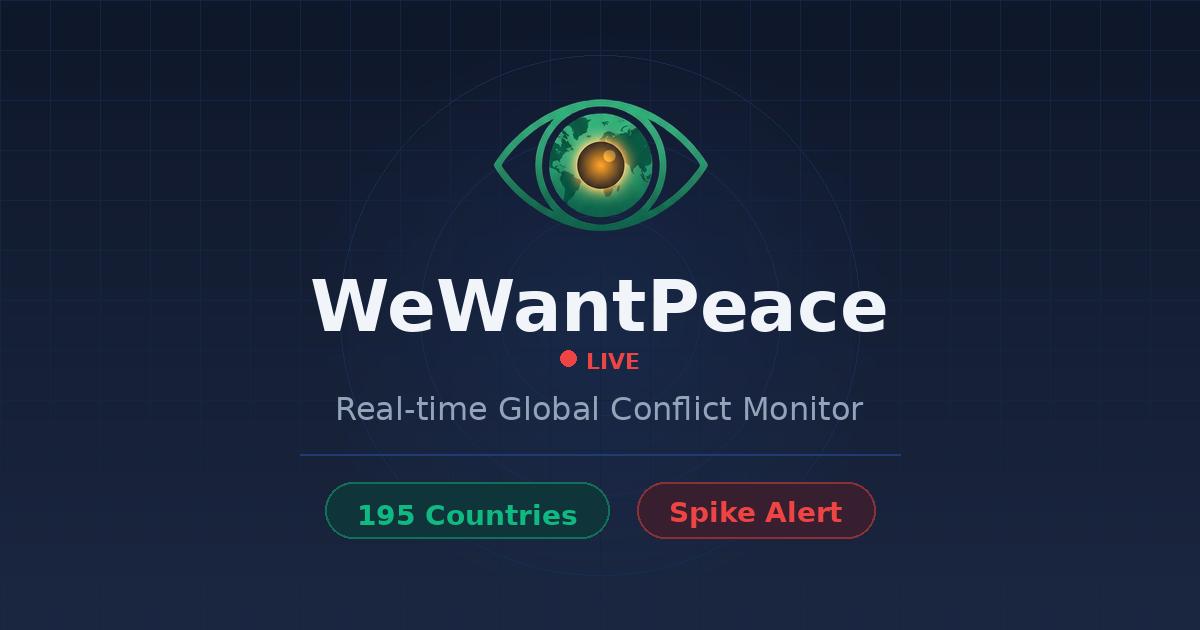
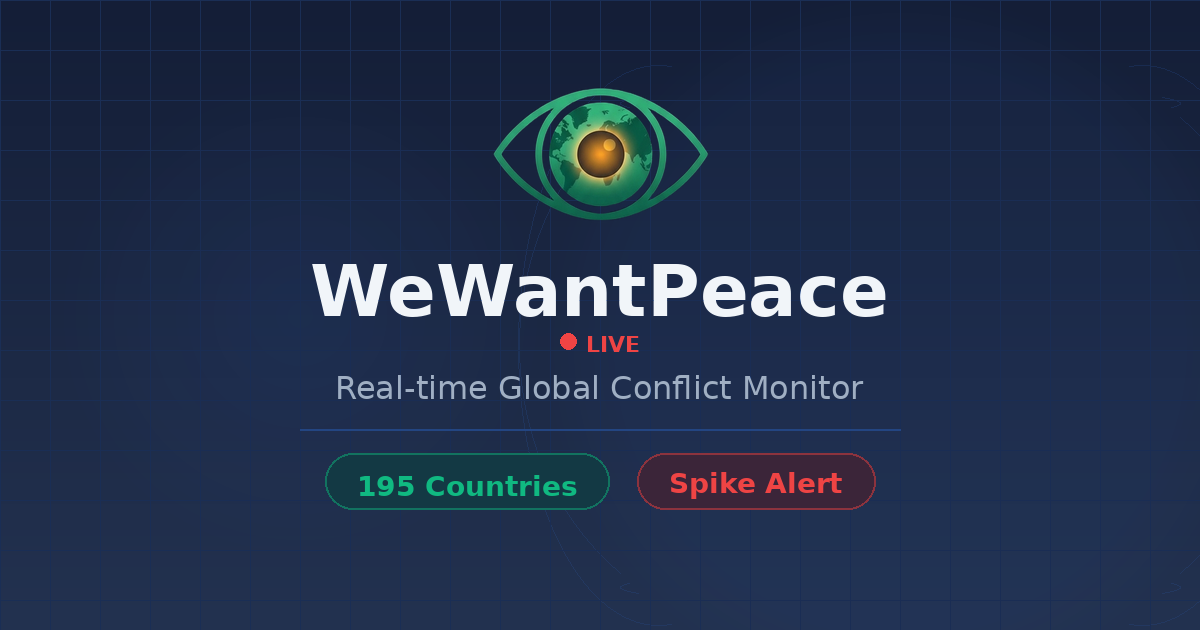
OG 이미지 개선 (지구본 배경 추가, 배경 밝게, 중앙 정렬) + 타이틀/디스크립션 중복 제거

Changed region(s): [[0.185, 0.3921, 0.74, 0.8746], [0.4008, 0.1206, 0.6167, 0.3921], [0.5242, 0.0905, 0.555, 0.1206]]

diff --git a/frontend/app/(main)/issues/[id]/page.tsx b/frontend/app/(main)/issues/[id]/page.tsx
@@ -20,18 +20,18 @@ export async function generateMetadata({ params }: Props): Promise<Metadata> {
       title: "WeWantPeace",
       description: SITE_DESC,
       openGraph: {
-        title: "WeWantPeace | 실시간 글로벌 분쟁 모니터링",
+        title: "WeWantPeace",
         description: SITE_DESC,
         type: "website",
         url: SITE_URL,
         siteName: "WeWantPeace",
-        images: [{ url: `${SITE_URL}/og-image.png?v=3` }],
+        images: [{ url: `${SITE_URL}/og-image.png?v=4` }],
       },
       twitter: {
         card: "summary_large_image",
-        title: "WeWantPeace | 실시간 글로벌 분쟁 모니터링",
+        title: "WeWantPeace",
         description: SITE_DESC,
-        images: [{ url: `${SITE_URL}/og-image-twitter.png?v=3` }],
+        images: [{ url: `${SITE_URL}/og-image-twitter.png?v=4` }],
       },
     };
   }

diff --git a/frontend/app/layout.tsx b/frontend/app/layout.tsx
@@ -18,15 +18,15 @@ export const metadata: Metadata = {
     locale: "ko_KR",
     url: SITE_URL,
     siteName: "WeWantPeace",
-    title: "WeWantPeace | 실시간 글로벌 분쟁 모니터링",
+    title: "WeWantPeace",
     description: "195개국 분쟁·안보 실시간 모니터링 플랫폼",
-    images: [{ url: `${SITE_URL}/og-image.png?v=3`, width: 1200, height: 630 }],
+    images: [{ url: `${SITE_URL}/og-image.png?v=4`, width: 1200, height: 630 }],
   },
   twitter: {
     card: "summary_large_image",
-    title: "WeWantPeace | 실시간 글로벌 분쟁 모니터링",
+    title: "WeWantPeace",
     description: "195개국 분쟁·안보 실시간 모니터링 플랫폼",
-    images: [{ url: `${SITE_URL}/og-image-twitter.png?v=3` }],
+    images: [{ url: `${SITE_URL}/og-image-twitter.png?v=4` }],
   },
   appleWebApp: {
     capable: true,

diff --git a/scripts/generate_og_image.py b/scripts/generate_og_image.py
@@ -5,63 +5,104 @@ OG 이미지 생성 스크립트.
 """
 from PIL import Image, ImageDraw, ImageFont
 import os
+import math
 
 W, H = 1200, 630
 OUT_DIR = os.path.join(os.path.dirname(__file__), "..", "frontend", "public")
 LOGO_PATH = os.path.join(os.path.dirname(__file__), "..", "frontend", "public", "logo-eye.png")
 
-# 색상
-BG_DARK = (15, 23, 42)
+# 색상 — 밝게
+BG_DARK = (20, 30, 55)
 GLOW_CENTER = (59, 130, 246)
 WHITE = (241, 245, 249)
-MUTED = (148, 163, 184)
+MUTED = (160, 175, 195)
 GREEN = (16, 185, 129)
 RED = (239, 68, 68)
 
 
 def draw_gradient_bg(draw: ImageDraw.ImageDraw):
-    """다크 그라데이션 배경 — 기존보다 밝게"""
+    """밝은 그라데이션 배경"""
     for y in range(H):
         t = y / H
-        r = int(15 + t * 12)
-        g = int(23 + t * 16)
-        b = int(42 + t * 22)
+        r = int(20 + t * 15)
+        g = int(30 + t * 20)
+        b = int(55 + t * 25)
         draw.line([(0, y), (W, y)], fill=(r, g, b))
 
 
 def draw_grid(draw: ImageDraw.ImageDraw):
-    """배경 그리드 패턴 — 잘 보이게 opacity 높임"""
-    grid_color = (59, 130, 246, 30)
+    """배경 그리드 패턴 — 선명하게"""
+    grid_color = (59, 130, 246, 40)
     for x in range(0, W, 50):
         draw.line([(x, 0), (x, H)], fill=grid_color, width=1)
     for y in range(0, H, 50):
         draw.line([(0, y), (W, y)], fill=grid_color, width=1)
 
 
-def draw_radar_glow(img: Image.Image):
-    """중앙 레이더 글로우 — 더 밝게"""
+def draw_globe(img: Image.Image):
+    """배경 와이어프레임 지구본 — 우측 하단에 크게"""
     overlay = Image.new("RGBA", (W, H), (0, 0, 0, 0))
     d = ImageDraw.Draw(overlay)
-    cx, cy = W // 2, H // 2
-    for r in range(300, 0, -2):
-        alpha = int(28 * (1 - r / 300))
+
+    # 지구본 중심: 우측으로 치우쳐서 배경 느낌
+    cx, cy = W * 3 // 4, H // 2 + 30
+    radius = 280
+    globe_color = (59, 130, 246, 35)
+
+    # 외곽 원
+    d.ellipse(
+        [cx - radius, cy - radius, cx + radius, cy + radius],
+        outline=(59, 130, 246, 55),
+        width=2,
+    )
+
+    # 위도선 (수평 타원)
+    for lat in [-60, -30, 0, 30, 60]:
+        lat_rad = math.radians(lat)
+        ry = int(radius * math.cos(lat_rad))
+        offset_y = int(radius * math.sin(lat_rad))
+        if ry > 5:
+            d.ellipse(
+                [cx - radius, cy - offset_y - ry // 8, cx + radius, cy - offset_y + ry // 8],
+                outline=globe_color,
+                width=1,
+            )
+
+    # 경도선 (수직 타원)
+    for lon_offset in [-60, -30, 0, 30, 60]:
+        lon_rad = math.radians(lon_offset)
+        rx = int(radius * math.cos(lon_rad))
+        offset_x = int(radius * math.sin(lon_rad))
+        if rx > 5:
+            d.ellipse(
+                [cx + offset_x - rx, cy - radius, cx + offset_x + rx, cy + radius],
+                outline=globe_color,
+                width=1,
+            )
+
+    # 글로우 효과
+    for r in range(radius + 80, radius, -2):
+        alpha = int(12 * (1 - (r - radius) / 80))
+        d.ellipse(
+            [cx - r, cy - r, cx + r, cy + r],
+            fill=(59, 130, 246, max(0, alpha)),
+        )
+
+    img.paste(Image.alpha_composite(Image.new("RGBA", img.size, (0, 0, 0, 0)), overlay), mask=overlay)
+
+
+def draw_radar_glow(img: Image.Image):
+    """좌측 레이더 글로우"""
+    overlay = Image.new("RGBA", (W, H), (0, 0, 0, 0))
+    d = ImageDraw.Draw(overlay)
+    cx, cy = W // 4, H // 2
+    for r in range(250, 0, -2):
+        alpha = int(20 * (1 - r / 250))
         d.ellipse(
             [cx - r, cy - r, cx + r, cy + r],
             fill=(GLOW_CENTER[0], GLOW_CENTER[1], GLOW_CENTER[2], alpha),
         )
     img.paste(Image.alpha_composite(Image.new("RGBA", img.size, (0, 0, 0, 0)), overlay), mask=overlay)
-
-
-def draw_radar_rings(draw: ImageDraw.ImageDraw):
-    """레이더 동심원 — 더 밝게, 더 크게"""
-    cx, cy = W // 2, H // 2
-    ring_color = (59, 130, 246, 50)
-    for r in [100, 180, 260]:
-        draw.ellipse(
-            [cx - r, cy - r, cx + r, cy + r],
-            outline=ring_color,
-            width=1,
-        )
 
 
 def get_font(size: int, bold: bool = False):
@@ -83,7 +124,7 @@ def draw_text_center(draw: ImageDraw.ImageDraw, y: int, text: str, font, fill):
 
 
 def draw_feature_tags(draw: ImageDraw.ImageDraw, y: int):
-    """피처 태그 — 크게"""
+    """피처 태그"""
     tags = [
         ("195 Countries", GREEN),
         ("Spike Alert", RED),
@@ -91,7 +132,7 @@ def draw_feature_tags(draw: ImageDraw.ImageDraw, y: int):
     font = get_font(28, bold=True)
     total_w = 0
     tag_sizes = []
-    pad_x, pad_y = 32, 16
+    pad_x = 32
     gap = 28
     for label, _ in tags:
         bbox = draw.textbbox((0, 0), label, font=font)
@@ -119,7 +160,7 @@ def draw_feature_tags(draw: ImageDraw.ImageDraw, y: int):
 
 
 def draw_live_indicator(draw: ImageDraw.ImageDraw, cx: int, y: int):
-    """LIVE 인디케이터 — 크게"""
+    """LIVE 인디케이터"""
     font = get_font(22, bold=True)
     label = "LIVE"
     dot_r = 8
@@ -140,17 +181,15 @@ def generate():
 
     draw_gradient_bg(draw)
     draw_grid(draw)
+    draw_globe(img)
     draw_radar_glow(img)
     draw = ImageDraw.Draw(img, "RGBA")
-    draw_radar_rings(draw)
 
-    # --- 콘텐츠 수직 정중앙 배치 (하단 URL 제거) ---
-    # 로고(150) + gap(24) + 타이틀(72) + gap(12) + LIVE(22) + gap(20) + 서브(32) + gap(32) + 구분선(1) + gap(28) + 태그(56)
-    # = 449px → 시작 Y = (630 - 449) / 2 ≈ 90
-    content_h = 150 + 24 + 72 + 12 + 22 + 20 + 32 + 32 + 1 + 28 + 56
-    start_y = (H - content_h) // 2
+    # --- 콘텐츠 배치: 정중앙에서 약간 위 (-20px) ---
+    content_h = 150 + 20 + 72 + 10 + 22 + 16 + 32 + 28 + 1 + 24 + 56
+    start_y = (H - content_h) // 2 - 20  # 약간 위로
 
-    # 로고 이미지 — 크게 (150px)
+    # 로고 (150px)
     logo_y = start_y
     if os.path.exists(LOGO_PATH):
         logo = Image.open(LOGO_PATH).convert("RGBA")
@@ -162,31 +201,31 @@ def generate():
         img.paste(logo, (logo_x, logo_y), logo)
         draw = ImageDraw.Draw(img, "RGBA")
 
-    # 타이틀 — 크게 (72pt)
-    title_y = logo_y + 150 + 24
+    # 타이틀 (72pt)
+    title_y = logo_y + 150 + 20
     title_font = get_font(72, bold=True)
     draw_text_center(draw, title_y, "WeWantPeace", title_font, WHITE)
 
-    # LIVE 인디케이터 — 크게 (22pt)
-    live_y = title_y + 72 + 12
+    # LIVE (22pt)
+    live_y = title_y + 72 + 10
     draw_live_indicator(draw, W // 2, live_y)
 
-    # 서브타이틀 — 크게 (32pt)
-    sub_y = live_y + 22 + 20
+    # 서브타이틀 (32pt)
+    sub_y = live_y + 22 + 16
     sub_font = get_font(32)
     draw_text_center(draw, sub_y, "Real-time Global Conflict Monitor", sub_font, MUTED)
 
     # 구분선
-    line_y = sub_y + 32 + 32
+    line_y = sub_y + 32 + 28
     line_w = 300
     draw.line(
         [(W // 2 - line_w, line_y), (W // 2 + line_w, line_y)],
-        fill=(59, 130, 246, 90),
+        fill=(59, 130, 246, 100),
         width=2,
     )
 
-    # 피처 태그 — 크게 (28pt, 56px tall)
-    tag_y = line_y + 28
+    # 피처 태그
+    tag_y = line_y + 24
     draw_feature_tags(draw, tag_y)
 
     # 저장
